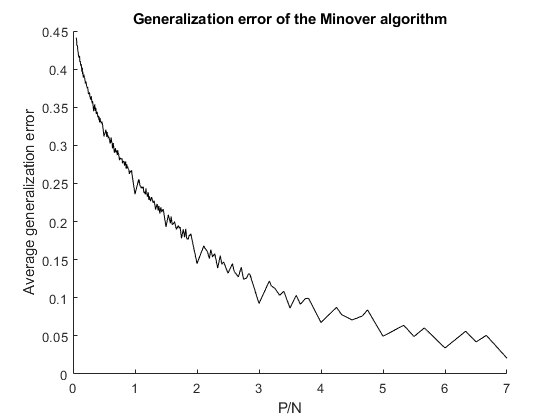
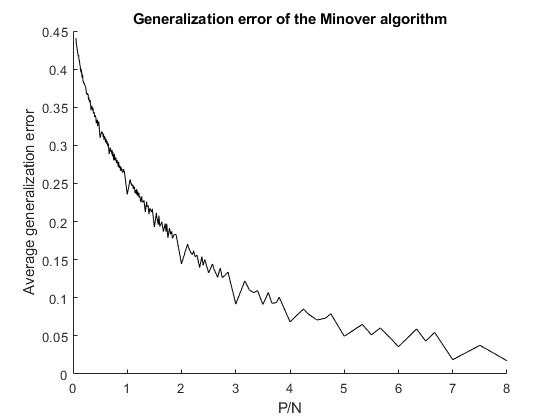
NN2

diff --git a/Neural Networks/Assignment2/learningRuleRosenblatt.m b/Neural Networks/Assignment2/learningRuleRosenblatt.m
@@ -4,8 +4,8 @@ close all;
 %Define settings
 Rmin = 0;
 Rmax = 8;
-Pmax = 20;
-Nmax = 20;
+Pmax = 40;
+Nmax = 40;
 epochs = 150;
 its = 1000;
 
@@ -13,7 +13,7 @@ its = 1000;
 N = 2; P = 10;
 wstar = randn(1, N);
 wstar = wstar * sqrt(N) / norm(wstar);
-[w, data, labels] = minover(P, N, epochs, wstar);
+[w, data, labels] = rosenblatt(P, N, epochs, wstar);
 % Show data
 figure; hold on;
 scatter(data(labels==1, 1), data(labels==1, 2), 15, 'bo');
@@ -46,7 +46,7 @@ parfor N = 1:Nmax
         for i = 1:its
             wstar = randn(1, N);
             wstar = wstar * sqrt(N) / norm(wstar);
-            [w, data, labels] = minover(P, N, epochs, wstar);
+            [w, data, labels] = rosenblatt(P, N, epochs, wstar);
             generalization_errors(P) = generalization_errors(P) + generalization_error(w, wstar);
         end
     end
@@ -80,13 +80,13 @@ plot(plotx, ploty, 'color', 'black');
 xlim([0, Rmax]);
 xlabel("P/N");
 ylabel("Average generalization error");
-title("Generalization error of the Minover algorithm");
+title("Generalization error of the Rosenblatt algorithm");
 
 figure;hold off;
 mesh(1:Pmax, 1:Nmax, results ./ its);
 xlabel("Number of examples P");
 ylabel("Number of features N");
 zlabel("Average generalization error");
-title("Generalization error of the Minover algorithm");
+title("Generalization error of the Rosenblatt algorithm");
 xlim([0 Pmax]);
 ylim([0 Nmax]);

diff --git a/Neural Networks/Assignment2/rosenblatt.m b/Neural Networks/Assignment2/rosenblatt.m
@@ -1,0 +1,27 @@
+%Performs sequential training on a Rosenblatt Perceptron
+%with P feature vectors of length N and nmax epochs
+function [w, data, labels] = rosenblatt(P, N, nmax, wstar)
+    w = zeros(1, N);
+    [data, labels] = getMinoverData(P, N, wstar);
+    
+    %Precompute data
+    ldata = data; ndata = data;
+    for mu = 1:P
+        ldata(mu,:) = data(mu,:)*labels(mu);
+        ndata(mu,:) = ldata(mu,:) ./ N;
+    end
+    
+    %Do epochs
+    for n = 1:nmax
+        done = true;
+        for mu = 1:P
+            if dot(w,ldata(mu,:)) <= 0
+                w = w + ndata(mu,:);
+                done = false;
+            end
+        end
+        if done
+            break;
+        end
+    end
+end
